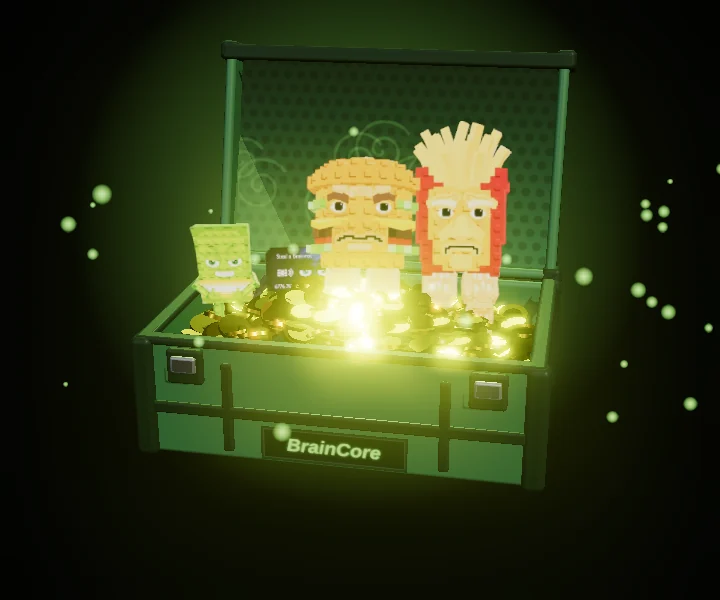
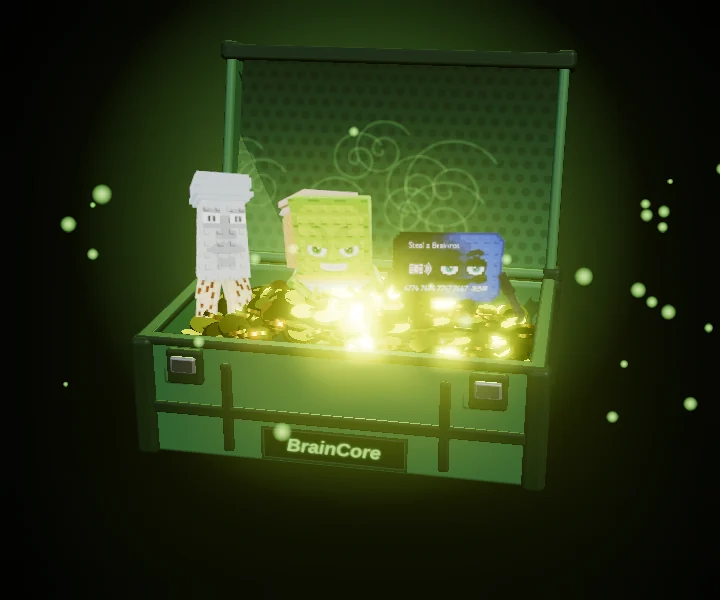
Paid cases drop cheap brainrots instead of B coins
Coins in purchasable cases are replaced with the cheapest real brainrots
(67, La Grande Combinasion, Money Money Puggy, Los Combinasionas, Nuclearo
Dinossauro, Tang Tang Keletang, Orcaledon, Ketupat Kepat, Lavadorito
Spinito); weights and prices rebalanced automatically. Coins stay only in
the free and referral cases. Start case trimmed to 15 B so the free case
still lets you climb; its model re-rendered.

Claude-Session: https://claude.ai/code/session_01WZozB5ajFWJtbDvxYFqdrb

Changed region(s): [[0.2444, 0.18, 0.7333, 0.54]]

diff --git a/bot/data/seed_cases.py b/bot/data/seed_cases.py
@@ -6,8 +6,10 @@
 Содержимое — только реальные персонажи Steal a Brainrot из
 bot.data.brainrot_roster; в бесплатных кейсах ещё и монеты.
 
-В платных кейсах — только брейнроты из каталога пополнения (от 41 B, их
-можно вывести из стока), мелкий дроп — монеты B сразу на баланс.
+В платных кейсах — только брейнроты: из каталога пополнения (от 41 B, их
+можно вывести из стока), а мелкий дроп — самые дешёвые брейнроты игры
+(67, La Grande Combinasion … Lavadorito Spinito, 5–31 B). Монеты B —
+только в бесплатном и реферальном кейсах.
 
 Баланс (вся выводится из данных, руками не проставлено ничего):
   * ценность предмета — его ценность в B со скриншотов пользователя
@@ -30,7 +32,7 @@ from bot.data.coins import COIN_RARITY, coin_name
 from bot.database.models import CaseCategory
 from bot.services.cases_service import CASE_WEIGHT_EXPONENT
 
-CASES_CONTENT_VERSION = "26-harsh"
+CASES_CONTENT_VERSION = "27-no-coins"
 
 TARGET_RTP = 0.90
 PAYBACK_TARGET = 0.22
@@ -179,26 +181,29 @@ SEED_CASES: list[SeedCase] = [
     ),
     # ------------------------------------------------------------ КЕЙСЫ
     _case(K, "start", "Старт", 0, CaseTheme("coins", "dust", ("#4f8f5a", "#1c3a22"), "#b7ff8a"),
-          [2, 3, 4, 5, 6, 8, GA, CC, BF]),
+          ["67", "La Grande Combinasion", "Money Money Puggy", "Los Combinasionas", "Nuclearo Dinossauro", GA, CC]),
     _case(K, "mini", "Мини", 0, CaseTheme("coins", "dust", ("#6f7c8f", "#2a3240"), "#c9d6e8"),
-          [4, 6, 8, 10, GA, CC, BF, "Pizza and Ranch", "Los Amigos"]),
+          ["67", "La Grande Combinasion", "Money Money Puggy", "Nuclearo Dinossauro", GA, CC, BF, "Pizza and Ranch", "Los Amigos"]),
     _case(K, "kopeika", "Копейка", 0, CaseTheme("coins", "sparkle", ("#b98b3a", "#5a3f12"), "#ffd24d"),
-          [6, 8, 10, 14, GA, CC, BF, "Popcuru and Fizzuru", "Fortunu and Cashuru"]),
+          ["La Grande Combinasion", "Money Money Puggy", "Los Combinasionas", "Tang Tang Keletang", GA, CC, BF,
+           "Popcuru and Fizzuru", "Fortunu and Cashuru"]),
     _case(K, "washer", "Стирка", 0, CaseTheme("water", "bubbles", ("#e8eef5", "#8497ad"), "#8fd8ff"),
-          [8, 10, 14, 18, GA, CC, "Capitano Moby", "Celestial Pegasus", "Jelly Moby"]),
+          ["La Grande Combinasion", "Nuclearo Dinossauro", "Orcaledon", "Lavadorito Spinito", GA, CC, "Capitano Moby",
+           "Celestial Pegasus", "Jelly Moby"]),
     _case(K, "sauce", "Соус", 0, CaseTheme("food", "fire", ("#d8b43a", "#8a2a12"), "#ff5a3a"),
-          [10, 14, 18, 22, BF, "Pizza and Ranch", "Popcuru and Fizzuru", "La Food Combinasion",
+          ["Money Money Puggy", "Nuclearo Dinossauro", "Tang Tang Keletang", "Ketupat Kepat", BF, "Pizza and Ranch", "Popcuru and Fizzuru", "La Food Combinasion",
            "Fragrama and Chocrama", "La Breakfast Combinasion"]),
     _case(K, "lasecret", "Ла Сикрет", 0, CaseTheme("bills", "lightning", ("#2a2a33", "#0b0b10"), "#f2f2f7"),
-          [14, 20, 25, 30, GA, CC, "La Secret Combinasion", "La Food Combinasion", "Los Secret Combinasionas"]),
+          ["Los Combinasionas", "La Grande Combinasion", "Tang Tang Keletang", "Lavadorito Spinito", GA, CC,
+           "La Secret Combinasion", "La Food Combinasion", "Los Secret Combinasionas"]),
     _case(K, "tirili", "Тирили", 0, CaseTheme("coins", "lightning", ("#2f74dc", "#163a7e"), "#ffe14d"),
-          [15, 20, 25, 30, GA, BF, "Capitano Moby", "Celestial Pegasus", "Globa Steppa", "Tirilikalika Tirilikalako"]),
+          ["Nuclearo Dinossauro", "Tang Tang Keletang", "Orcaledon", "Lavadorito Spinito", GA, BF, "Capitano Moby", "Celestial Pegasus", "Globa Steppa", "Tirilikalika Tirilikalako"]),
     _case(K, "safe", "Сейф", 0, CaseTheme("bills", "sparkle", ("#cda33c", "#6a4f10"), "#ffe07a"),
-          [30, GA, CC, "Los Amigos", "Fortunu and Cashuru", "Los Sekolahs", "Los Secret Combinasionas", "Rico Dinero"]),
+          ["Lavadorito Spinito", "Money Money Puggy", GA, CC, "Los Amigos", "Fortunu and Cashuru", "Los Sekolahs", "Los Secret Combinasionas", "Rico Dinero"]),
     _case(K, "boo", "Бу!", 0, CaseTheme("pumpkins", "smoke", ("#5d3894", "#231238"), "#ff9a2e"),
-          [40, GA, "Spooky and Pumpky", "Cerberus", "Duggy Bros", "Dug dug dug", "Foxini Lanternini", "La Casa Boo"]),
+          ["Tang Tang Keletang", "Orcaledon", GA, "Spooky and Pumpky", "Cerberus", "Duggy Bros", "Dug dug dug", "Foxini Lanternini", "La Casa Boo"]),
     _case(K, "fastfood", "Фастфуд", 0, CaseTheme("food", "sparkle", ("#d8402f", "#7a1a12"), "#ffb23d"),
-          [50, BF, "Pizza and Ranch", "Popcuru and Fizzuru", "La Food Combinasion", "Fragrama and Chocrama",
+          ["Ketupat Kepat", "Lavadorito Spinito", BF, "Pizza and Ranch", "Popcuru and Fizzuru", "La Food Combinasion", "Fragrama and Chocrama",
            "Cooki and Milki", "La Breakfast Combinasion", "Pancake and Syrup", "Sammyni Cakini"]),
     # --- для лёгкого раскрута: только брейнроты каталога, без монет,
     # окупаются чаще (~38% открытий), множители умеренные (×3–×4).
@@ -227,7 +232,7 @@ SEED_CASES: list[SeedCase] = [
           [CC, "Fortunu and Cashuru", "Quackini Snackini", "Los Sekolahs", "Ketupat Bros", "Rosey and Teddy",
            "Bunny and Eggy", "Moby Bros", "Digi Narwhal"]),
     _case(K, "capitano", "Капитан", 0, CaseTheme("water", "bubbles", ("#2a92a6", "#0e3c48"), "#6ff4ff"),
-          [20, 30, CC, "Pizza and Ranch", "Capitano Moby", "Globa Steppa", "Bumbatron", "Jelly Moby", "Moby Bros",
+          ["Orcaledon", "Tang Tang Keletang", CC, "Pizza and Ranch", "Capitano Moby", "Globa Steppa", "Bumbatron", "Jelly Moby", "Moby Bros",
            "Fishino Clownino"]),
     _case(K, "party", "Праздник", 0, CaseTheme("gifts", "confetti", ("#e0508f", "#7a1846"), "#ffd1e6"),
           ["La Food Combinasion", "Cooki and Milki", "Sammyni Fattini", "Reinito Sleighito", "Rosey and Teddy",

diff --git a/tests/test_case_content.py b/tests/test_case_content.py
@@ -37,15 +37,15 @@ def test_paid_cases_form_a_price_ladder_and_all_in_is_top():
     assert min(c.price_tokens for c in main) < 30  # дешёвые кейсы — как на референсе (~19–30)
 
 
-def test_paid_cases_hold_only_withdrawable_brainrots_or_coins():
-    """В платных кейсах — брейнроты из каталога пополнения (от 41 B, их можно
-    вывести) и монеты B; мелочи вне каталога нет."""
+def test_paid_cases_hold_only_brainrots():
+    """В платных кейсах — только брейнроты ростера, без монет B (монеты —
+    лишь в бесплатном и реферальном)."""
+    assert SEED_CASES_BY_CODE["free"].price_tokens == 0
     for case in SEED_CASES:
-        assert SEED_CASES_BY_CODE["free"].price_tokens == 0
         if case.category in (CaseCategory.FREE, CaseCategory.REFERRAL):
             continue
         for item in case.items:
-            assert item.rarity == COIN_RARITY or item.value >= 41, (case.code, item.name)
+            assert item.rarity != COIN_RARITY and item.name in ROSTER_BY_NAME, (case.code, item.name)
 
 
 def test_every_roster_brainrot_has_official_render():
